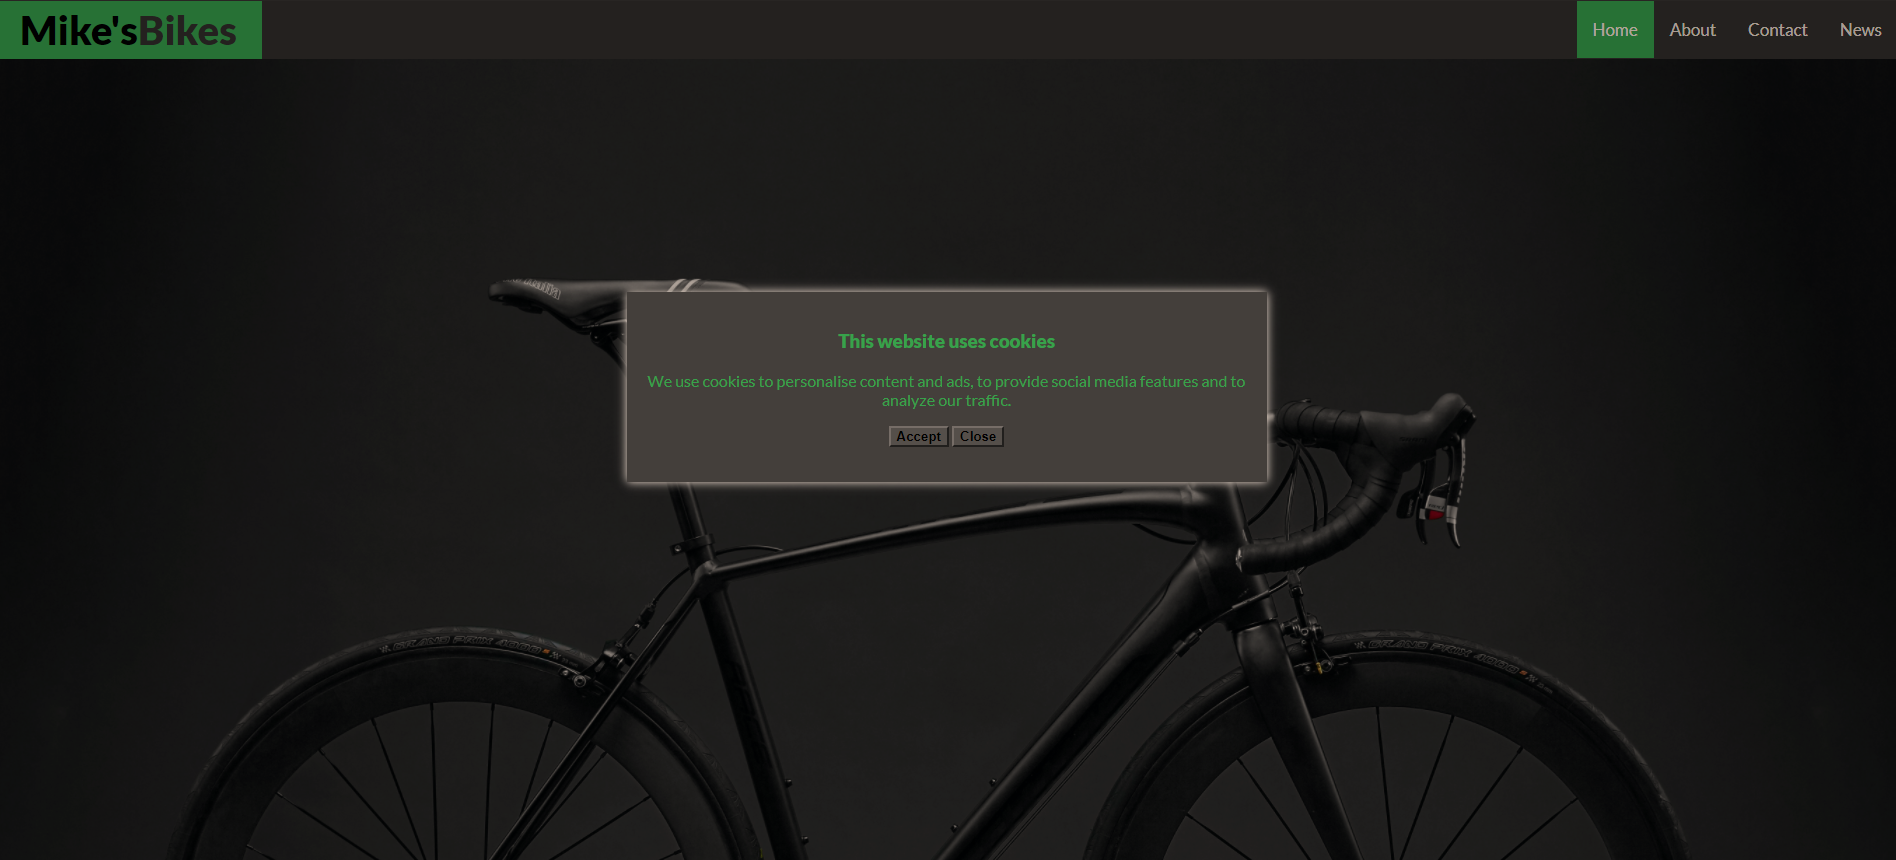
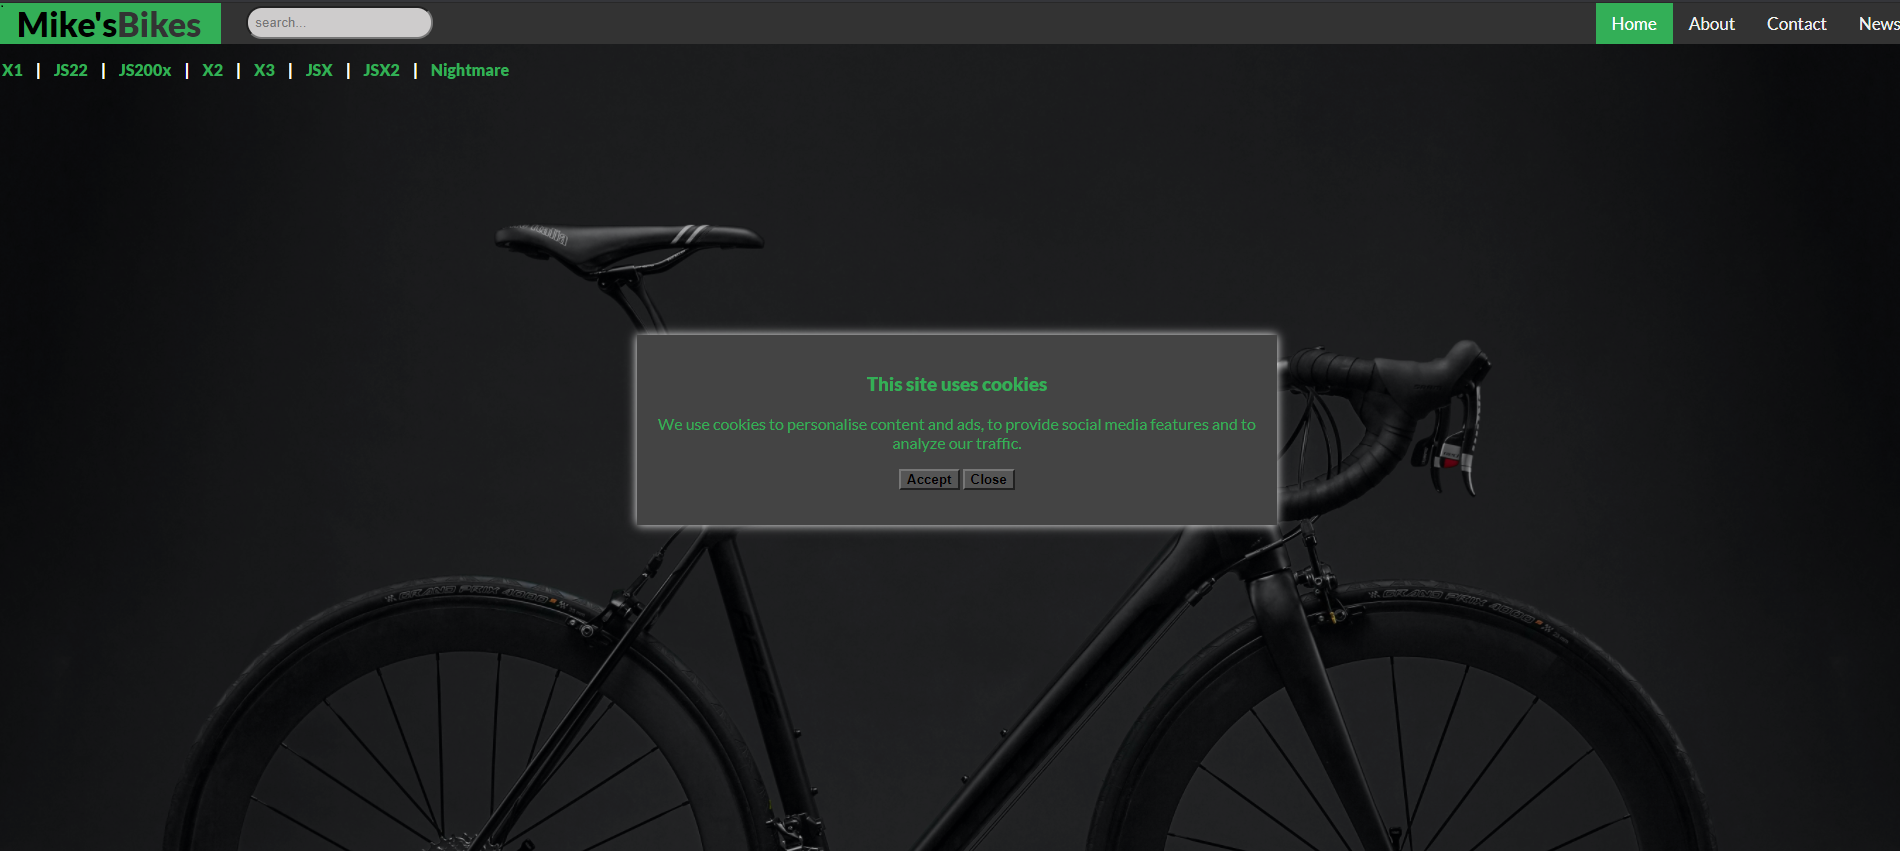
features complete, README edited, code formatted

diff --git a/main.js b/main.js
@@ -2,12 +2,14 @@ var modal = document.getElementById("modal");
 var carousel = document.getElementById("modal2");
 
 carousel.style.display = "none";
+show.style.display = "none";
 
 var close = document
   .getElementById("closeBtn")
   .addEventListener("click", function () {
     modal.style.display = "none";
     document.getElementById("overlay").style.display = "block";
+    show.style.display = "block";
   });
 
 var accept = document
@@ -15,69 +17,77 @@ var accept = document
   .addEventListener("click", function () {
     modal.style.display = "none";
     document.getElementById("overlay").style.display = "block";
+    show.style.display = "block";
   });
 
-  var exit = document.getElementById("close").addEventListener('click', function(){
+var exit = document
+  .getElementById("close")
+  .addEventListener("click", function () {
     carousel.style.display = "none";
-    showModels.style.display = "block"
-  })
+    showModels.style.display = "block";
+  });
 
-  var showModels = document.getElementById("show").addEventListener('click', function(){
+var showModels = document
+  .getElementById("show")
+  .addEventListener("click", function () {
     carousel.style.display = "block";
     showModels.style.display = "none";
-    })
+  });
 
-  document.getElementById("usernameInput").addEventListener("keyup", function(event) {
+document
+  .getElementById("usernameInput")
+  .addEventListener("keyup", function (event) {
     let searchQuery = event.target.value.toLowerCase();
-    let bikeModels = document.getElementsByClassName('name');
-    
-    for(let i = 0; i < bikeModels.length; i++) {
+    let bikeModels = document.getElementsByClassName("name");
+
+    for (let i = 0; i < bikeModels.length; i++) {
       const currentName = bikeModels[i].textContent.toLowerCase();
-  
+
       if (currentName.includes(searchQuery)) {
         bikeModels[i].style.display = "inline-block";
-    } else {
+      } else {
         bikeModels[i].style.display = "none";
+      }
     }
-  }
+  });
 
-});
-
-
-const slides = document.getElementsByClassName('carousel-item');
+const slides = document.getElementsByClassName("carousel-item");
 let slidePosition = 0;
 const totalSlides = slides.length;
 
-document.getElementById('carousel-button-next').addEventListener('click', moveToNextSlide);
-document.getElementById('carousel-button-prev').addEventListener('click', moveToPrevSlide);
+document
+  .getElementById("carousel-button-next")
+  .addEventListener("click", moveToNextSlide);
+document
+  .getElementById("carousel-button-prev")
+  .addEventListener("click", moveToPrevSlide);
 
 function moveToNextSlide() {
-    hideAllSlides();
-    if (slidePosition === totalSlides - 1) {
-        slidePosition = 0;
-    } else {
-        slidePosition++;
-    }
-    
-    slides[slidePosition].classList.add("carousel-item-visible");
-    showModels.style.background = "none";
+  hideAllSlides();
+  if (slidePosition === totalSlides - 1) {
+    slidePosition = 0;
+  } else {
+    slidePosition++;
+  }
+
+  slides[slidePosition].classList.add("carousel-item-visible");
+  showModels.style.background = "none";
 }
 
 function moveToPrevSlide() {
   hideAllSlides();
-  if(slidePosition === 0){
-      slidePosition = slides.length -1;
+  if (slidePosition === 0) {
+    slidePosition = slides.length - 1;
   } else {
-      slidePosition--;
+    slidePosition--;
   }
   slides[slidePosition].classList.add("carousel-item-visible");
   showModels.style.display = "none";
 }
 
 function hideAllSlides() {
-    for(let slide of slides){
-        slides[slidePosition].classList.remove("carousel-item-visible");
-        slides[slidePosition].classList.add("carousel-item-hidden");
-        
-    }
+  for (let slide of slides) {
+    slides[slidePosition].classList.remove("carousel-item-visible");
+    slides[slidePosition].classList.add("carousel-item-hidden");
+  }
 }

diff --git a/style.css b/style.css
@@ -83,7 +83,7 @@ h1 {
   max-height: 600px;
   margin: 0 auto;
   padding: 20px;
-  height: 450px; 
+  height: 450px;
   position: relative;
   top: 20%;
 }
@@ -108,7 +108,6 @@ h1 {
   padding: 7px;
   margin-top: 3px;
   background-color: #cecccc;
-  
 }
 
 #results {
@@ -126,14 +125,12 @@ h1 {
   cursor: pointer;
   color: #333;
   font-weight: 400;
-
 }
 
 .divide {
   color: #fff;
   padding: 0 10px;
 }
-
 
 .carousel {
   max-width: 600px;
@@ -161,7 +158,6 @@ h1 {
   justify-content: space-between;
   position: absolute;
   top: 50%;
-  transform: translateY(-50%);
 }
 
 .carousel .carousel-actions button {
@@ -206,13 +202,4 @@ h1 {
   border-radius: 12px;
   border-color: antiquewhite;
   display: block;
-}
-
-@keyframes fadeVisibility {
-  0% {
-      opacity: 0;
-  }
-  100% {
-      opacity: 1;
-  }
 }

diff --git a/index.html b/index.html
@@ -36,6 +36,7 @@
         </ul>
 
         <button id="show">2020 Models</button>
+        <!-- page content end-->
 
         <!-- Bike carousel modal start -->
         <div id="modal2">
@@ -76,16 +77,9 @@
         
           </div>
         </div>
-        
-
     <!--  Bike carousel modal end-->
 
-
-
-
-        <!-- page content end-->
-
-        <!--Modal start-->
+        <!--Cookies Modal start-->
           <div id="modal">
             <h3>This site uses cookies</h3>
             <p>
@@ -97,7 +91,7 @@
               <button id="closeBtn">Close</button>
             </div>
           </div>
-          <!--Modal end-->
+          <!--Cookies Modal end-->
           
     <script src="main.js"></script>
   </body>

diff --git a/README.md b/README.md
@@ -1,18 +1,50 @@
 ## Cookies Modal
 
+
+
+## Summary
+
+This is a simple site I created to replicate the standard cookies pop-up that you get on sites that use cookies for user experience, a search box that can filter result displayed, as well as a second modal with a image slider.
+
+<br>
+
+ The cookies modal appears on page load and will close on button press. 
+
 <br>
 
  <img src="images/thumb.png">
 
 <br>
 
-<img src="images/thumb2.png"   title="hotel">
+<img src="images/thumb2.png">
 
 <br>
 
-## Summary
+After the first modal has been closed, the user can see the bike models in the top corner. The search box can be used to refine the list. If one of the models doesn't contain any of the characters typed, they will be removed from the list. 
 
-This is a simple modal I created to replicate the standard cookies pop-up that you get on sites that use cookies for user experience. It appears on page load and the modal will close on button press. This is one of a few modal related mini projects that I've been using to get practice in between portfolio projects to keep sharp with the basics.
+
+<br>
+
+<img src="images/thumb4.png" >
+
+<br>
+
+The user can also view the bike models via the "2020 models" button in the center of the page, this appears after the cookies modal has been exited. The button triggers a second modal that lets the user cycle through images. This modal can also be closed by button click.
+
+<br>
+
+ <img src="images/thumb5.png">
+
+<br>
+
+<img src="images/thumb6.png" >
+
+<br>
+
+
+<br>
+
+This is one of a few modal related mini projects that I've been using to get practice in between portfolio projects to keep sharp with the basics.
 
 
 **Author**
